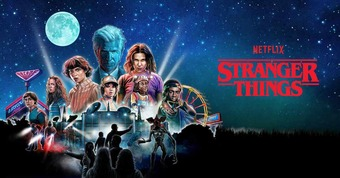
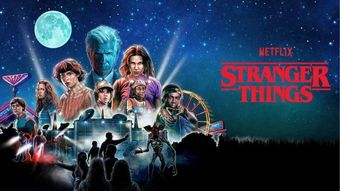
readjusted the size of the images for a seamless result

diff --git a/src/assets/cards/Cards_data.js b/src/assets/cards/Cards_data.js
@@ -16,59 +16,59 @@ import card_img14 from './card14.jpg';
 const cards_data = [
     {
         image:card_img1,
-        name:"Kung Fu Panda"
+        name:"Wednesday"
     },
     {
         image:card_img2,
-        name:"Squid Game"
+        name:"Suits"
     },
     {
         image:card_img3,
-        name:"Squid Challange"
+        name:"Better Call Saul"
     },
     {
         image:card_img4,
-        name:"Jawan"
+        name:"Dark"
     },
     {
         image:card_img5,
-        name:"The Ghost"
+        name:"Breaking Bad"
     },
     {
         image:card_img6,
-        name:"Lucifer"
+        name:"Squid Games"
     },
     {
         image:card_img7,
-        name:"The Railway MEN"
+        name:"The Office"
     },
     {
         image:card_img8,
-        name:"Young Sheldon"
+        name:"Lucifer"
     },
     {
         image:card_img9,
-        name:"Sacred Games"
+        name:"The Expanse"
     },
     {
         image:card_img10,
-        name:"Adipurush"
+        name:"Alice In Boderland"
     },
     {
         image:card_img11,
-        name:"Sukhee"
+        name:"Stranger Things"
     },
     {
         image:card_img12,
-        name:"Mission Ganj"
+        name:"Vikings"
     },
     {
         image:card_img13,
-        name:"Leo"
+        name:"The Big Bang Theory"
     },
     {
         image:card_img14,
-        name:"All of Us Are Dead"
+        name:"Arcane"
     },
 ]
 

diff --git a/src/Pages/Home/Home.css b/src/Pages/Home/Home.css
@@ -6,6 +6,10 @@
   width: 100%;
   mask-image: linear-gradient(to right, transparent, black 75%);
   -webkit-mask-image: linear-gradient(to right, transparent, black 75%);
+  background-size: cover;
+  background-repeat: no-repeat;
+  object-fit: contain;
+  background-attachment: fixed;
 }
 
 .hero-caption {
@@ -17,7 +21,7 @@
 .hero-caption-img {
   max-width: 500px;
   margin-bottom: 30px;
-  width:100%;
+  width: 100%;
 }
 
 .hero-caption p {
@@ -29,7 +33,7 @@
 .hero-buttons {
   display: flex;
   gap: 10px;
-  margin-bottom: 300px;
+  margin-bottom: 20px;
 }
 
 .hero-buttons .btn img {
@@ -58,6 +62,6 @@
   background: #ffffffbf;
   transition: 1s;
 }
-..hero-buttons .btn.dark-btn :hover{
+..hero-buttons .btn.dark-btn :hover {
   background: #6d6d6e66;
 }

diff --git a/src/Components/MainCards/MainCards.jsx b/src/Components/MainCards/MainCards.jsx
@@ -1,11 +1,22 @@
-import React from 'react'
-import "./MainCards.css"
+import React from "react";
+import "./MainCards.css";
+import cards_data from "../../assets/cards/Cards_data";
 const MainCards = () => {
   return (
-    <div className='maincards'>
-      
+    <div className="maincards">
+      <h2>Popular on Netflix</h2>
+      <div className="card-list">
+        {cards_data.map((card, index) => {
+          return (
+            <div className="card" key={index}>
+              <img src={card.image} alt="card images" className="popular-images" />
+              <p>{card.name}</p>
+            </div>
+          );
+        })}
+      </div>
     </div>
-  )
-}
+  );
+};
 
-export default MainCards
+export default MainCards;

diff --git a/src/Pages/Home/Home.jsx b/src/Pages/Home/Home.jsx
@@ -5,6 +5,7 @@ import HeroBanner from "../../assets/hero_banner.jpg";
 import HeroTtitle from "../../assets/hero_title.png";
 import PlayIcon from "../../assets/play_icon.png";
 import InfoIcon from "../../assets/info_icon.png";
+import MainCards from "../../Components/MainCards/MainCards";
 
 const Home = () => {
   return (
@@ -24,6 +25,7 @@ const Home = () => {
               <img src={InfoIcon} alt="info button icon" /> More Info
             </button>
           </div>
+          <MainCards />
         </div>
       </div>
     </div>

diff --git a/src/Components/MainCards/MainCards.css b/src/Components/MainCards/MainCards.css
@@ -1,0 +1,20 @@
+.maincards {
+  margin-top: 50px;
+  margin-bottom: 30px;
+}
+
+.maincards h2 {
+  margin-bottom: 10px;
+}
+
+.card-list {
+  display: flex;
+  gap: 10px;
+}
+
+.card-list img {
+  width:240px;
+  border-radius: 4px;
+  cursor: pointer;
+  
+}

diff --git a/src/index.css b/src/index.css
@@ -67,12 +67,7 @@ h4 {
 }
 
 /* Make images easier to work with */
-img,
-picture {
-  max-width: 100%;
-  height: auto;
-  display: block;
-}
+
 
 /* Inherit fonts for inputs and buttons */
 input,
